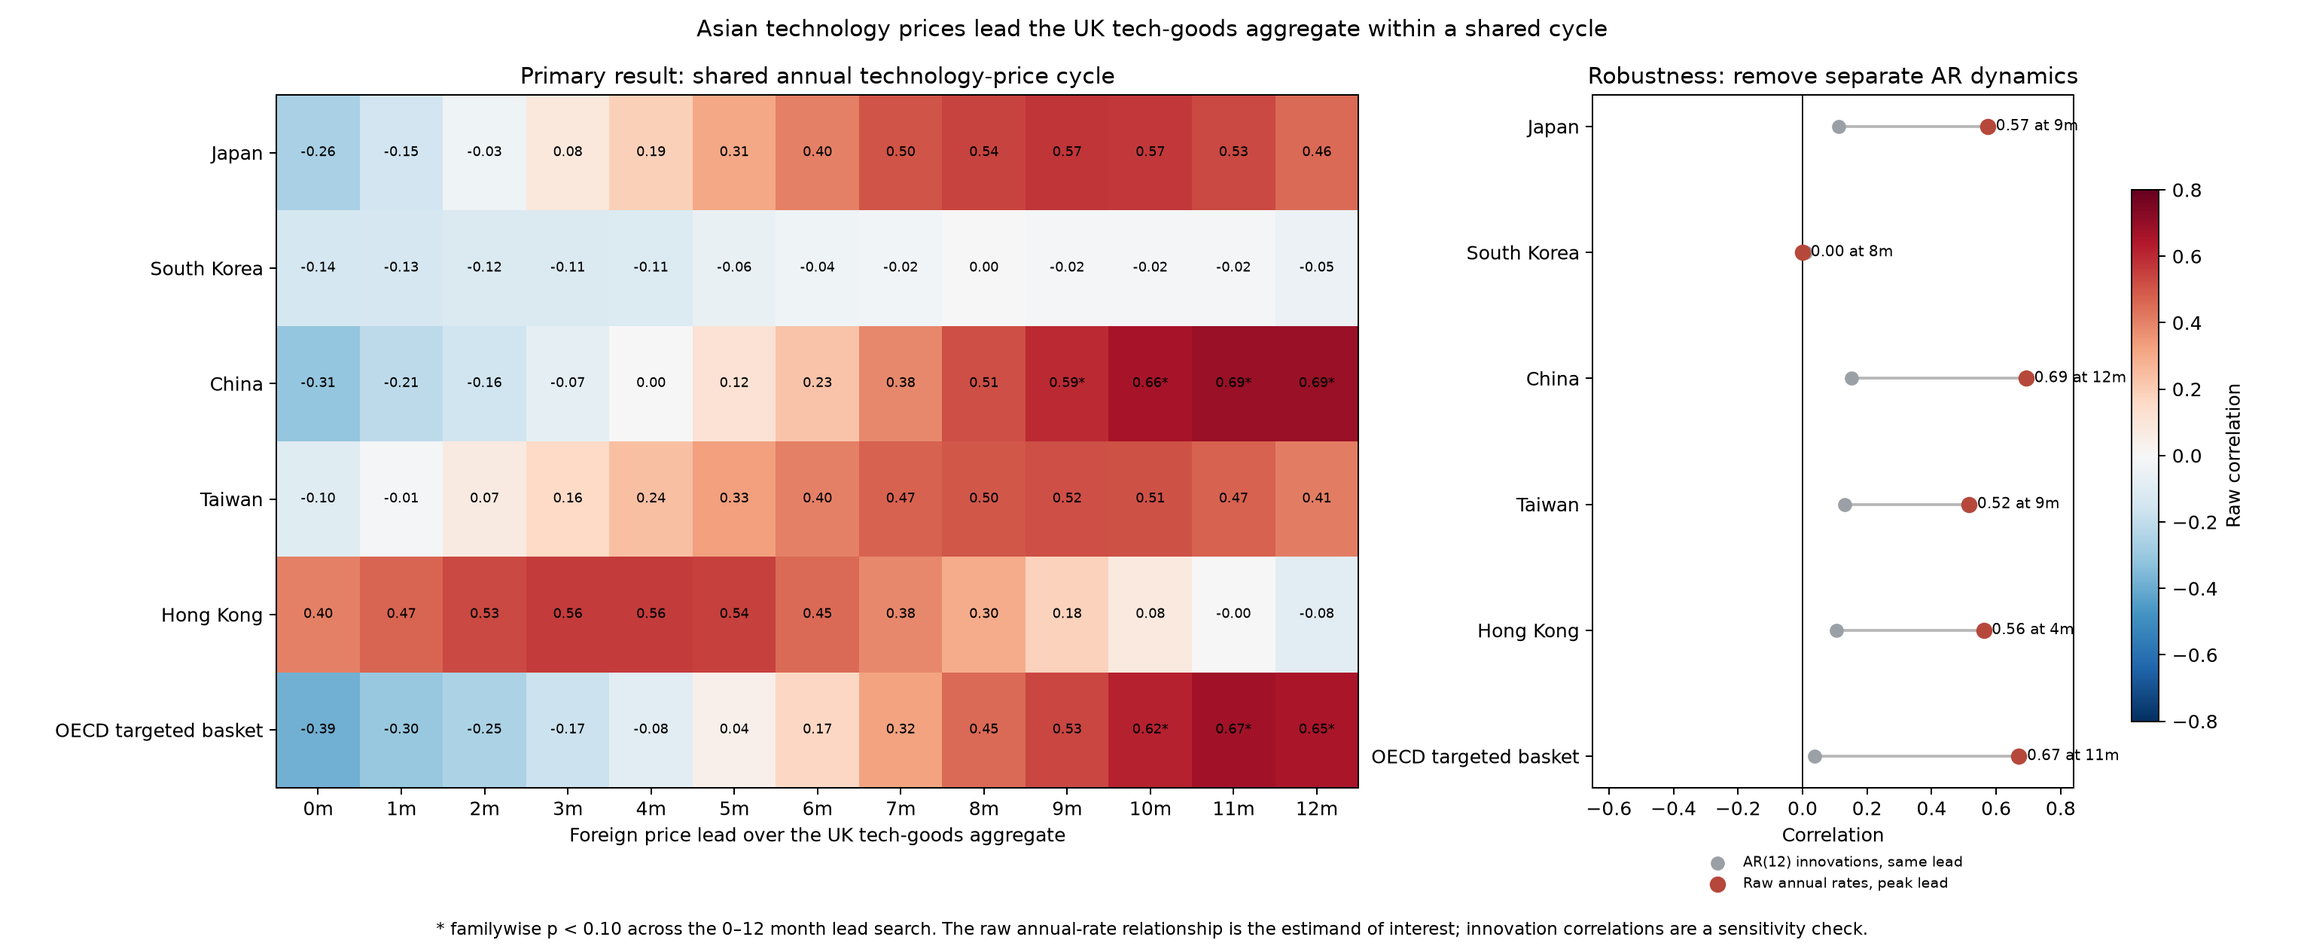
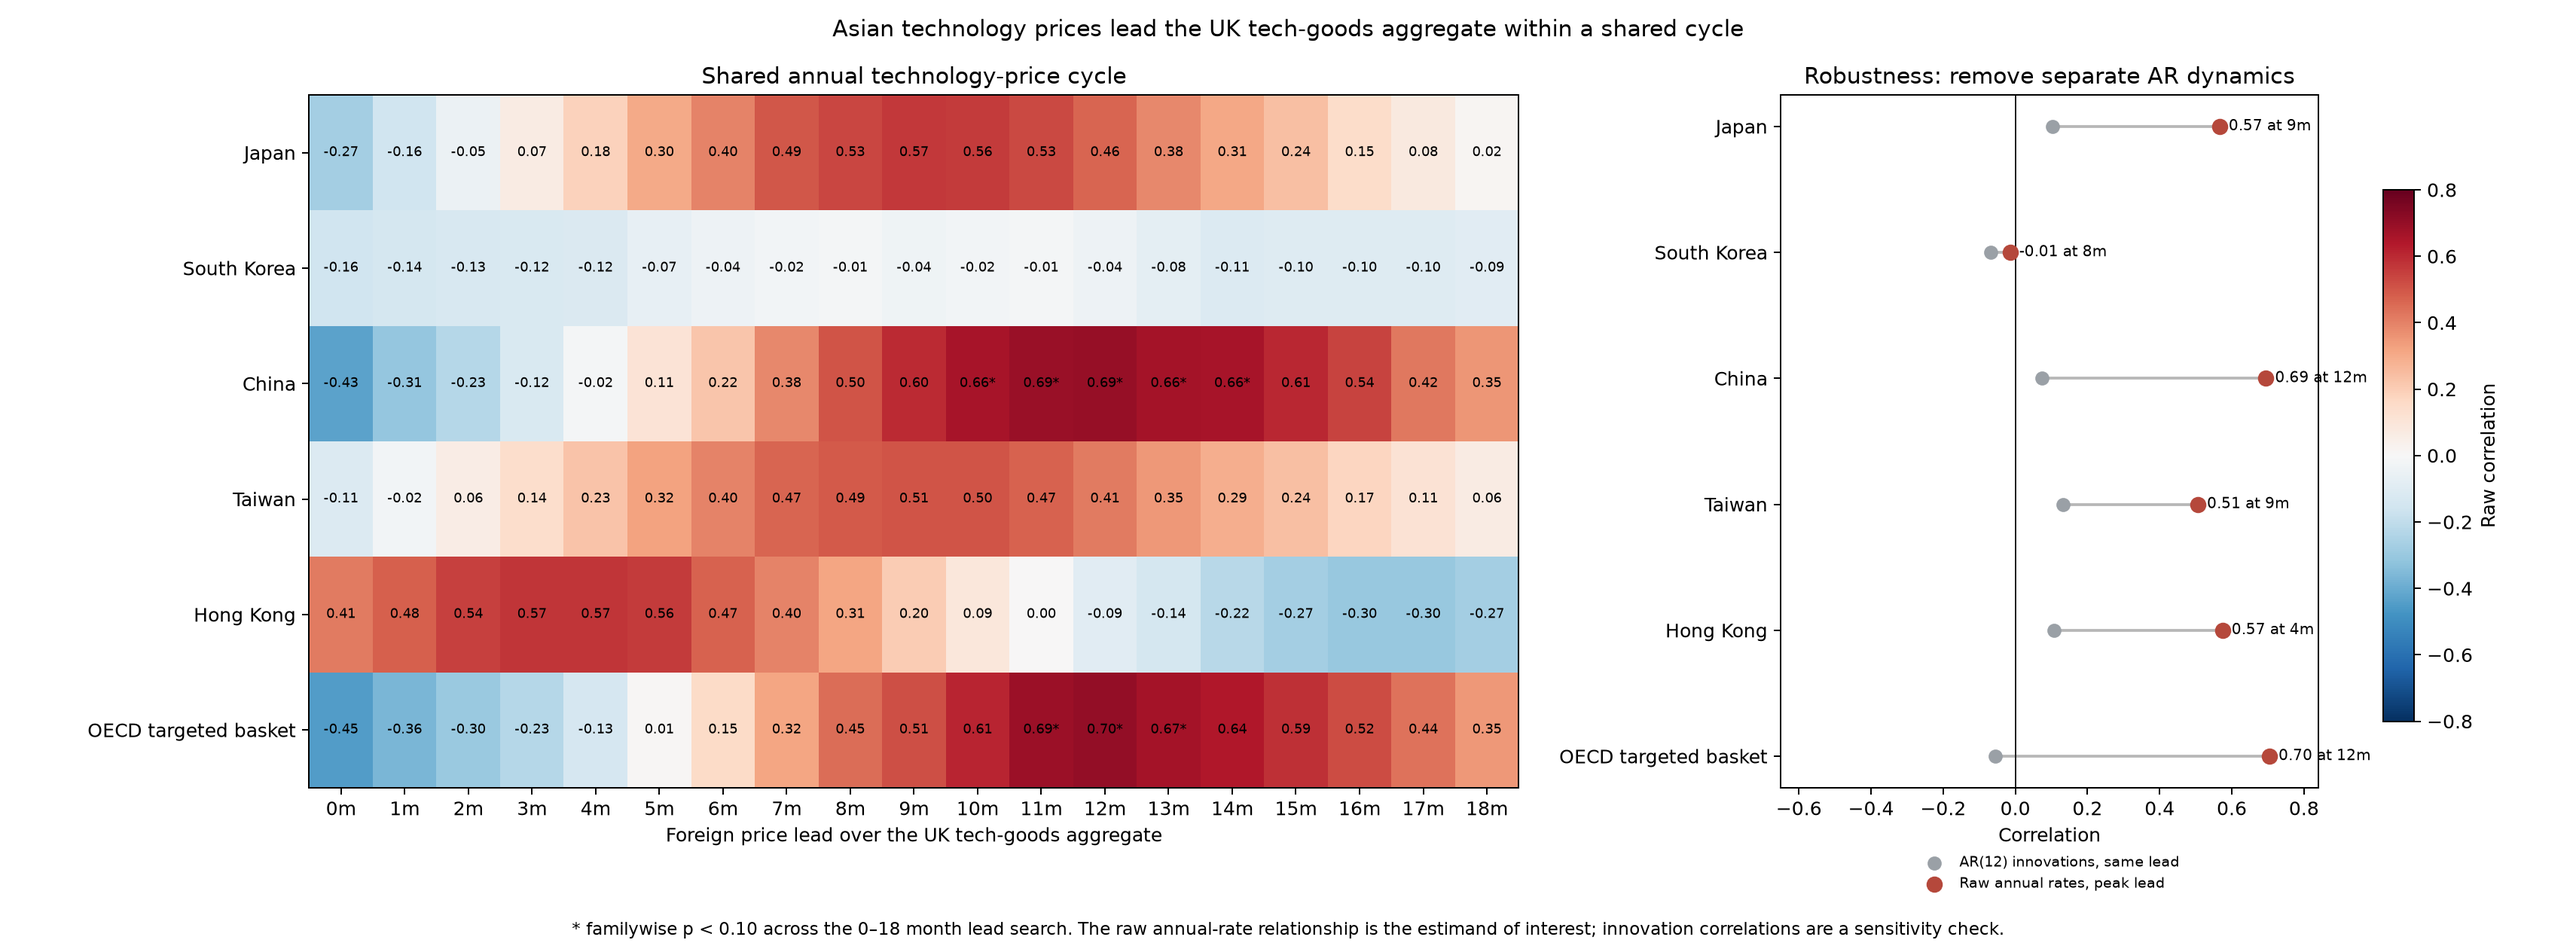
Restore unshaded 18-month correlation chart

diff --git a/src/uk_tech_prices/reporting.py b/src/uk_tech_prices/reporting.py
@@ -784,9 +784,6 @@ def save_correlation_method_chart(
         range(max_lead + 1),
         labels=[f"{lead}m" for lead in range(max_lead + 1)],
     )
-    if max_lead > 12:
-        axes[0].axvspan(12.5, max_lead + 0.5, color="#e8e8e8", alpha=0.22)
-        axes[0].axvline(12.5, color="#555555", linewidth=0.8, linestyle="--")
     axes[0].set_yticks(
         range(len(candidates)), labels=[COUNTRY_LABELS[item] for item in candidates]
     )
@@ -888,18 +885,13 @@ def save_correlation_method_chart(
     colorbar_axis = fig.add_axes([0.925, 0.24, 0.012, 0.56])
     fig.colorbar(image, cax=colorbar_axis, label="Raw correlation")
     fig.suptitle(
-        (
-            "Asian technology-price correlations peak around 12 months and then fade"
-            if max_lead > 12
-            else "Asian technology prices lead the UK tech-goods aggregate within a shared cycle"
-        ),
+        "Asian technology prices lead the UK tech-goods aggregate within a shared cycle",
         y=0.98,
     )
     fig.text(
         0.5,
         0.015,
         f"* familywise p < 0.10 across the 0–{max_lead} month lead search. "
-        + ("Leads 13–18 are shaded as the extended window. " if max_lead > 12 else "")
         + "The raw annual-rate relationship is the estimand of interest; innovation "
         "correlations are a sensitivity check.",
         ha="center",
@@ -1478,6 +1470,8 @@ def build_report_outputs() -> None:
     save_exposure_component_chart()
     save_correlation_method_chart()
     save_correlation_method_chart(
+        max_lead=18,
+        source_filename="lead_correlation_comparison_0_18.csv",
         output_filename="correlation_raw_vs_prewhitened_0_18.png",
     )
     save_mechanical_contribution_chart()

diff --git a/docs/research_report.md b/docs/research_report.md
@@ -171,7 +171,7 @@ Pre-whitening remains useful as a deliberately narrower robustness diagnostic:
 - recursive forecasts ask whether the foreign measure would have improved a
   real-time UK forecast beyond own lags and broad controls.
 
-![Raw and pre-whitened correlations through 12 months](../outputs/charts/correlation_raw_vs_prewhitened_0_18.png)
+![Raw and pre-whitened correlations through 18 months](../outputs/charts/correlation_raw_vs_prewhitened_0_18.png)
 
 For ex-games CPI, China's sterling targeted PPI has a raw common-sample
 correlation of 0.69 at a 12-month lead and the OECD-weighted targeted basket has

diff --git a/docs/concise_report.md b/docs/concise_report.md
@@ -24,8 +24,8 @@ upstream before reaching UK retail prices. Pre-whitened relationships are
 weaker, showing that the result concerns a common cycle rather than a sequence
 of isolated shocks.
 
-Within the primary 0–12-month window, the strongest China and OECD-weighted
-relationships peak at around one year.
+Extending the lead search from 12 to 18 months confirms that the strongest China
+and OECD-weighted relationships occur at around one year.
 
 ![Asian lead correlations](../outputs/charts/correlation_raw_vs_prewhitened_0_18.png)
 
